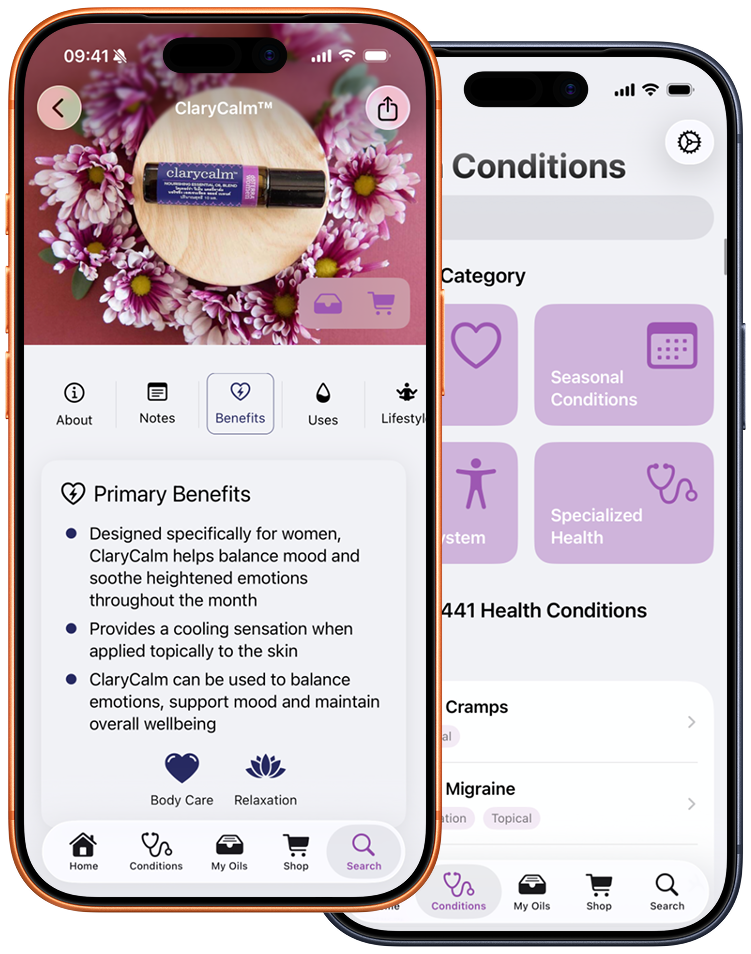
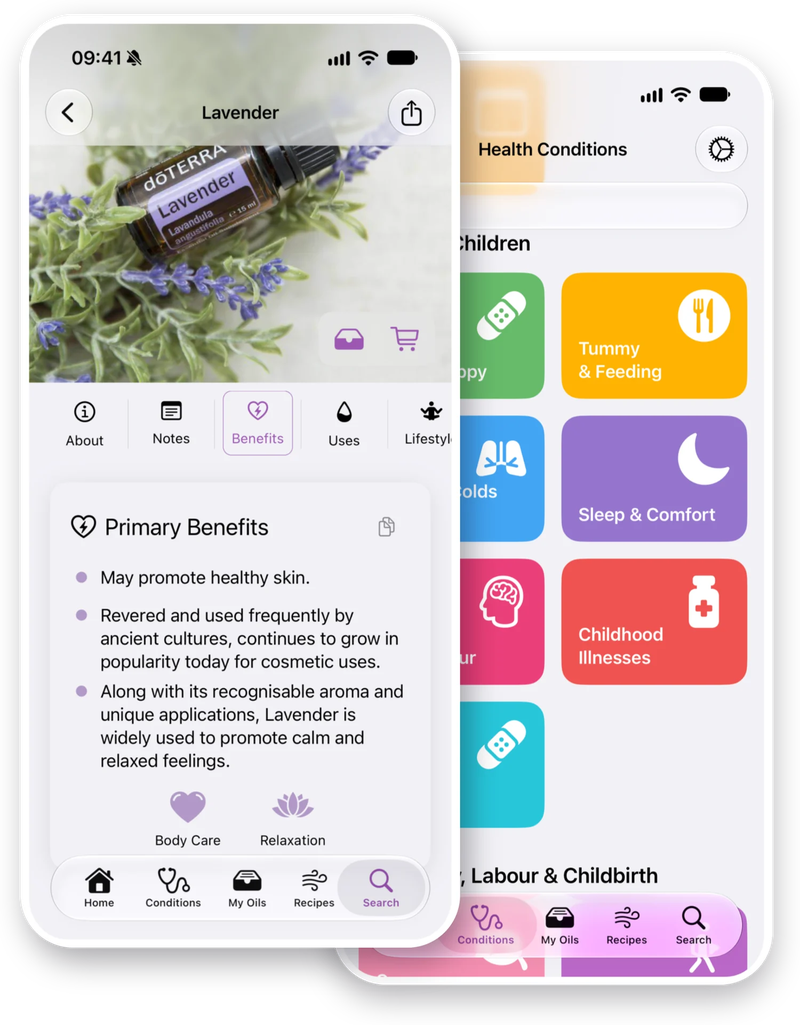
Rename Essential Oils product and drop doTERRA title branding.
Use Essential Oils Guide & Recipes on the landing page and in privacy and terms, keep a single no-affiliation trademark line, and remove the doTERRA lockup from the hero and first screenshot.

diff --git a/essential-oils-app.html b/essential-oils-app.html
@@ -4,9 +4,9 @@
 <head>
   <meta charset="utf-8">
   <meta content="width=device-width, initial-scale=1.0" name="viewport">
-  <title>Essential Oils - dōTERRA Guide | Your Complete Natural Wellness Companion</title>
-  <meta name="description" content="Your complete guide to natural wellness: 400+ health conditions, 140+ dōTERRA® essential oils, and 100+ expert diffuser blends — all in one app for iOS and Android.">
-  <meta name="keywords" content="essential oils, dōTERRA, aromatherapy, wellness, oil tracker, diffuser recipes, natural remedies, health conditions, android, ios">
+  <title>Essential Oils Guide &amp; Recipes | Your Complete Natural Wellness Companion</title>
+  <meta name="description" content="Your complete guide to natural wellness: 400+ health conditions, 140+ essential oils, and 100+ expert diffuser blends — all in one app for iOS and Android.">
+  <meta name="keywords" content="essential oils, aromatherapy, wellness, oil tracker, diffuser recipes, natural remedies, health conditions, android, ios">
 
   <!-- Favicons -->
   <link href="assets/img/favicon.svg" rel="icon">
@@ -240,7 +240,7 @@
       <div class="container">
         <div class="row gy-4">
           <div class="col-lg-6 order-2 order-lg-1 d-flex flex-column justify-content-center">
-            <h1 data-aos="fade-up">Essential Oils - dōTERRA Guide</h1>
+            <h1 data-aos="fade-up">Essential Oils Guide &amp; Recipes</h1>
             <h2 data-aos="fade-up" data-aos-delay="100">Your Complete Guide to Natural Wellness</h2>
             <p data-aos="fade-up" data-aos-delay="200">
               Discover 400+ health conditions, 140+ essential oils, and expert-crafted blends — all in one beautifully designed app. Transform your wellness journey today.
@@ -258,7 +258,7 @@
             </div>
           </div>
           <div class="col-lg-6 order-1 order-lg-2 hero-img" data-aos="zoom-out">
-            <img src="assets/img/essential-oils-app/hero.png" class="img-fluid animated" alt="Essential Oils App Interface">
+            <img src="assets/img/essential-oils-app/hero.png" class="img-fluid animated" alt="Essential Oils Guide &amp; Recipes">
           </div>
         </div>
       </div>
@@ -691,7 +691,7 @@
               </div>
 
               <div class="faq-item">
-                <h3><span class="num">15.</span> <span>How can the Essential Oils app help me?</span> <i class="faq-toggle bi bi-chevron-right"></i></h3>
+                <h3><span class="num">15.</span> <span>How can Essential Oils Guide &amp; Recipes help me?</span> <i class="faq-toggle bi bi-chevron-right"></i></h3>
                 <div class="faq-content">
                   <p>It's your complete wellness companion: access 400+ health conditions with recommended oils, explore 140+ essential oil profiles, discover 100+ diffuser blends, track your inventory, receive daily wellness tips, and save your favorite recipes — free on iOS and Android.</p>
                 </div>
@@ -804,9 +804,9 @@
         <div class="row justify-content-center">
           <div class="col-lg-8">
             <div class="pricing-card" data-aos="fade-up" data-aos-delay="100">
-              <h3>Essential Oils - dōTERRA Guide</h3>
+              <h3>Essential Oils Guide &amp; Recipes</h3>
               <div class="price">FREE</div>
-              <p>Download now and unlock the complete world of dōTERRA® essential oils, on iPhone, iPad, Mac, Vision Pro, and Android!</p>
+              <p>Download now and explore essential oil profiles, diffuser recipes, and wellness guides on iPhone, iPad, Mac, Vision Pro, and Android.</p>
 
               <div class="compatibility-grid">
                 <div class="compatibility-item">
@@ -857,7 +857,7 @@
         <div class="legal-notice" data-aos="fade-up" data-aos-delay="200">
           <h5>Legal Disclaimer</h5>
           <p><strong>For informational purposes only.</strong> Not intended for medical diagnosis, treatment, cure, or prevention. Statements not evaluated by the Food and Drug Administration.</p>
-          <p><strong>Independently developed</strong> by Appostu SRL, this app contains original content and is not endorsed or affiliated with dōTERRA© or dōTERRA Holdings, LLC. dōTERRA™ is a trademark of dōTERRA Holdings, LLC.</p>
+          <p><strong>Independently developed</strong> by Appostu SRL. Essential Oils Guide &amp; Recipes contains original content and is not endorsed or affiliated with doTERRA® or doTERRA Holdings, LLC. doTERRA™ is a trademark of doTERRA Holdings, LLC.</p>
           <p>Read our <a href="privacypolicy.html">Privacy Policy</a> and <a href="termsofuse.html">Terms of Use</a> for full details, including the app's health and safety disclaimer.</p>
         </div>
       </div>

diff --git a/termsofuse.html b/termsofuse.html
@@ -5,7 +5,7 @@
   <meta charset="utf-8">
   <meta content="width=device-width, initial-scale=1.0" name="viewport">
   <title>Terms of Use - Appostu</title>
-  <meta name="description" content="Terms of Use for Appostu and its apps, including Essential Oils Guide - doTERRA and Orthodox Holidays.">
+  <meta name="description" content="Terms of Use for Appostu and its apps, including Essential Oils Guide &amp; Recipes and Orthodox Holidays.">
   <meta name="keywords" content="terms of use, terms of service, appostu, essential oils guide, orthodox holidays">
 
   <!-- Favicons -->
@@ -70,8 +70,8 @@
       <div class="container" data-aos="fade-up" data-aos-delay="100">
         <article class="article">
           <div class="content">
-            <p><strong>Last Updated: September 2, 2026</strong></p>
-            <p>These Terms of Use ("Terms") are a legal agreement between you and Appostu SRL ("Appostu," "we," "us," or "our") and govern your use of our website (appostu.com) and our mobile applications, including <strong>Essential Oils Guide - doTERRA</strong> and <strong>Orthodox Holidays</strong> (together, the "Services"). These Terms apply generally across all Appostu Services; where an app needs its own additional terms, those are set out in the app-specific section near the end of this document. By accessing or using our Services, you agree to be bound by these Terms. If you do not agree, please do not use our Services.</p>
+            <p><strong>Last Updated: September 28, 2026</strong></p>
+            <p>These Terms of Use ("Terms") are a legal agreement between you and Appostu SRL ("Appostu," "we," "us," or "our") and govern your use of our website (appostu.com) and our mobile applications, including <strong>Essential Oils Guide &amp; Recipes</strong> and <strong>Orthodox Holidays</strong> (together, the "Services"). These Terms apply generally across all Appostu Services; where an app needs its own additional terms, those are set out in the app-specific section near the end of this document. By accessing or using our Services, you agree to be bound by these Terms. If you do not agree, please do not use our Services.</p>
 
             <h3>1. Eligibility</h3>
             <p>You must be at least 16 years old to use our Services. By using our Services, you represent that you meet this requirement. If applicable law in your jurisdiction requires a higher minimum age, that higher age applies.</p>
@@ -130,8 +130,8 @@
             <h2>App-Specific Terms</h2>
             <p>The section below adds terms specific to individual Appostu apps, in addition to everything above. As we release more apps, each will get its own subsection here.</p>
 
-            <h3>Essential Oils Guide - doTERRA (iOS &amp; Android)</h3>
-            <p><strong>No affiliation with doTERRA.</strong> Essential Oils Guide - doTERRA is independently developed by Appostu SRL. It contains original content and is not affiliated with, endorsed by, or sponsored by doTERRA®. doTERRA™ is a trademark of doTERRA Holdings, LLC.</p>
+            <h3>Essential Oils Guide &amp; Recipes (iOS &amp; Android)</h3>
+            <p><strong>No affiliation or endorsement.</strong> Essential Oils Guide &amp; Recipes is independently developed by Appostu SRL. It contains original content and is not affiliated with, endorsed by, or sponsored by doTERRA®. doTERRA™ is a trademark of doTERRA Holdings, LLC.</p>
             <p><strong>Informational tool only — not medical advice.</strong> This app, including its essential oil profiles, blends, and health condition/protocol content, is provided for general informational and educational purposes only. It is not intended to diagnose, treat, cure, or prevent any disease, and statements within the app have not been evaluated by the Food and Drug Administration or any equivalent regulatory body. The app is a reference tool, not a substitute for professional medical advice.</p>
             <p><strong>Consult a qualified professional.</strong> Always consult a physician, pharmacist, or other qualified healthcare professional before using essential oils, especially if you are pregnant, nursing, have a medical condition, take medication, or plan to use oils on children, infants, or pets.</p>
             <p><strong>Assumption of risk.</strong> Essential oils can cause skin irritation, allergic reactions, or other adverse effects if used improperly. You are solely responsible for how you choose to use any information, suggestion, or protocol presented in the app. To the maximum extent permitted by law, Appostu SRL is not responsible or liable for any health condition, injury, or adverse outcome resulting from your use, or misuse, of essential oils or any content in the app.</p>

diff --git a/privacypolicy.html b/privacypolicy.html
@@ -5,7 +5,7 @@
   <meta charset="utf-8">
   <meta content="width=device-width, initial-scale=1.0" name="viewport">
   <title>Privacy Policy - Appostu</title>
-  <meta name="description" content="Privacy Policy for Appostu and its apps, including Essential Oils Guide - doTERRA and Orthodox Holidays — how we collect, use, and protect your personal information.">
+  <meta name="description" content="Privacy Policy for Appostu and its apps, including Essential Oils Guide &amp; Recipes and Orthodox Holidays — how we collect, use, and protect your personal information.">
   <meta name="keywords" content="privacy policy, appostu, data protection, essential oils guide, orthodox holidays">
 
   <!-- Favicons -->
@@ -70,8 +70,8 @@
       <div class="container" data-aos="fade-up" data-aos-delay="100">
         <article class="article">
           <div class="content">
-            <p><strong>Last Updated: September 2, 2026</strong></p>
-            <p>This Privacy Policy explains how Appostu SRL ("Appostu," "we," "us," or "our") collects, uses, discloses, and safeguards information when you visit our website (appostu.com) or use any of our mobile applications, including <strong>Essential Oils Guide - doTERRA</strong> and <strong>Orthodox Holidays</strong> (together, the "Services"). This Policy applies generally across all Appostu Services; where an app has its own specific data practices, those are described in the app-specific section near the end of this Policy. By using our Services, you agree to the collection and use of information as described here. If you do not agree, please do not use our Services.</p>
+            <p><strong>Last Updated: September 28, 2026</strong></p>
+            <p>This Privacy Policy explains how Appostu SRL ("Appostu," "we," "us," or "our") collects, uses, discloses, and safeguards information when you visit our website (appostu.com) or use any of our mobile applications, including <strong>Essential Oils Guide &amp; Recipes</strong> and <strong>Orthodox Holidays</strong> (together, the "Services"). This Policy applies generally across all Appostu Services; where an app has its own specific data practices, those are described in the app-specific section near the end of this Policy. By using our Services, you agree to the collection and use of information as described here. If you do not agree, please do not use our Services.</p>
 
             <h3>1. Who We Are</h3>
             <p>The data controller responsible for your information is:</p>
@@ -179,8 +179,8 @@
             <h2>App-Specific Section</h2>
             <p>The section below adds details specific to individual Appostu apps, in addition to everything above. As we release more apps, each will get its own subsection here.</p>
 
-            <h3>Essential Oils Guide - doTERRA (iOS &amp; Android)</h3>
-            <p><strong>Not affiliated with doTERRA.</strong> Essential Oils Guide - doTERRA is independently developed by Appostu SRL. It is not affiliated with, endorsed by, or sponsored by doTERRA®. doTERRA™ is a trademark of doTERRA Holdings, LLC.</p>
+            <h3>Essential Oils Guide &amp; Recipes (iOS &amp; Android)</h3>
+            <p><strong>No affiliation or endorsement.</strong> Essential Oils Guide &amp; Recipes is independently developed by Appostu SRL. It is not affiliated with, endorsed by, or sponsored by doTERRA®. doTERRA™ is a trademark of doTERRA Holdings, LLC.</p>
             <p><strong>Locally stored content.</strong> Information you save in the app — such as favorite oils and blends, personal notes, your oil inventory, shopping lists, and saved health conditions — is stored on your device. If you choose to sign in with Google or Apple, this content may also be stored in your account so it can sync across your devices; otherwise it stays on your device and is not uploaded to us.</p>
             <p><strong>Health-related content.</strong> Any health condition or wellness information you save or view in the app is treated the same as any other saved content described above — we do not sell it, and we do not treat it differently from your other in-app preferences. See the Terms of Use for the app's full health/medical disclaimer, which explains that the app's health-condition and protocol content is for informational purposes only and is not medical advice.</p>
 

diff --git a/CLAUDE.md b/CLAUDE.md
@@ -9,7 +9,7 @@ A static marketing website for Appostu (appostu.com), served via GitHub Pages. I
 Pages are plain `.html` files at the repo root:
 - `index.html` — main landing page (hero, about, values, stats, blog post, contact)
 - `holy-cross-app.html` — landing page for Orthodox Holidays (Romanian Orthodox calendar companion)
-- `essential-oils-app.html` — landing page for a separate dōTERRA essential oils companion app
+- `essential-oils-app.html` — landing page for Essential Oils Guide & Recipes, a brand-agnostic essential oils companion app
 - `privacypolicy.html` — privacy policy
 - `google618fe4c536414081.html` — Google Search Console verification file (do not remove/rename)
 - `app-ads.txt`, `CNAME` — required at root for ad network (AdSense/AdMob) verification and custom domain routing respectively; keep them at the root
